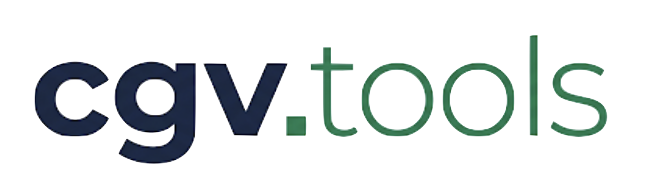
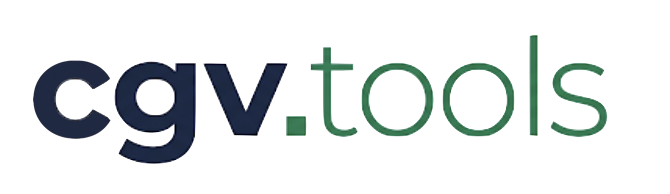
Add files via upload

diff --git a/index.html b/index.html
@@ -131,9 +131,28 @@
             border-top: 1px solid rgba(0,0,0,0.05);
         }
 
+        /* Contenedor para alinear los logos del footer */
+        .footer-logo-brand {
+            height: 22px; /* Altura reducida para mayor elegancia */
+            width: auto;
+            opacity: 0.8; /* Unifica el tono con el logo de CC */
+            transition: opacity 0.2s;
+        }
+
+        .footer-logo-brand:hover {
+            opacity: 1;
+        }
+
+        .footer-logos {
+            display: flex;
+            align-items: center;
+            justify-content: center;
+            gap: 15px; /* Espaciado más compacto */
+            margin-bottom: 15px;
+        }
+
         .cc-logo {
             height: 31px;
-            margin-bottom: 12px;
             opacity: 0.8;
             transition: opacity 0.2s;
         }
@@ -232,9 +251,14 @@
 </div>
 
 <footer>
-    <a rel="license" href="http://creativecommons.org/licenses/by-nc-nd/4.0/">
-        <img alt="Creative Commons License" class="cc-logo" src="https://mirrors.creativecommons.org/presskit/buttons/88x31/svg/by-nc-nd.svg" />
-    </a>
+    <div class="footer-logos">
+        <img src="cgv-tools.png" alt="cgv.tools Logo" class="footer-logo-brand">
+        
+        <a rel="license" href="http://creativecommons.org/licenses/by-nc-nd/4.0/">
+            <img alt="Creative Commons License" class="cc-logo" src="https://mirrors.creativecommons.org/presskit/buttons/88x31/svg/by-nc-nd.svg" />
+        </a>
+    </div>
+    
     <div class="footer-info">
         Carlos González Vergara<br>
         <a href="mailto:cgonzalv@uc.cl" class="email-link">(cgonzalv@uc.cl)</a>
